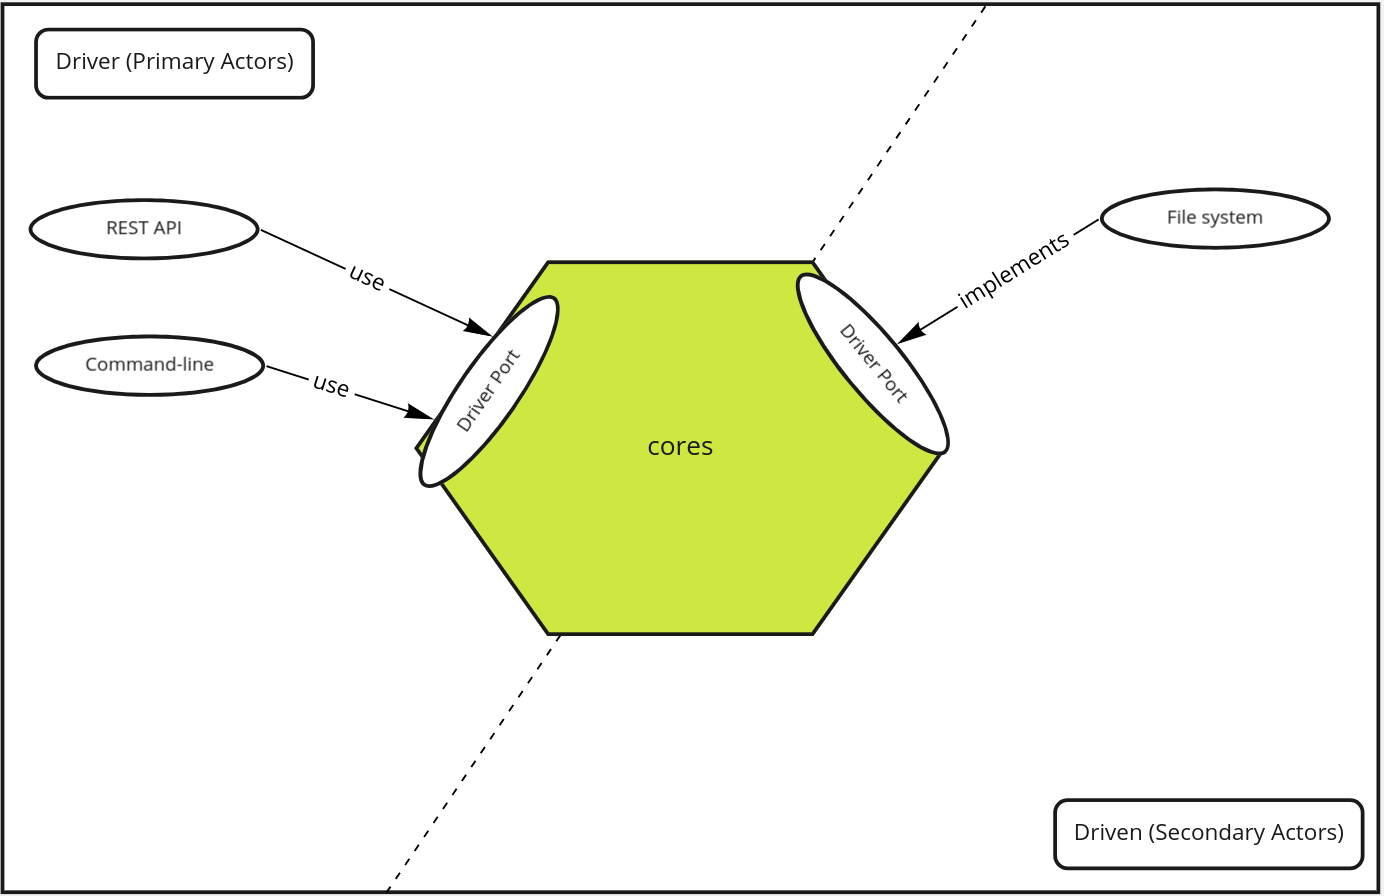
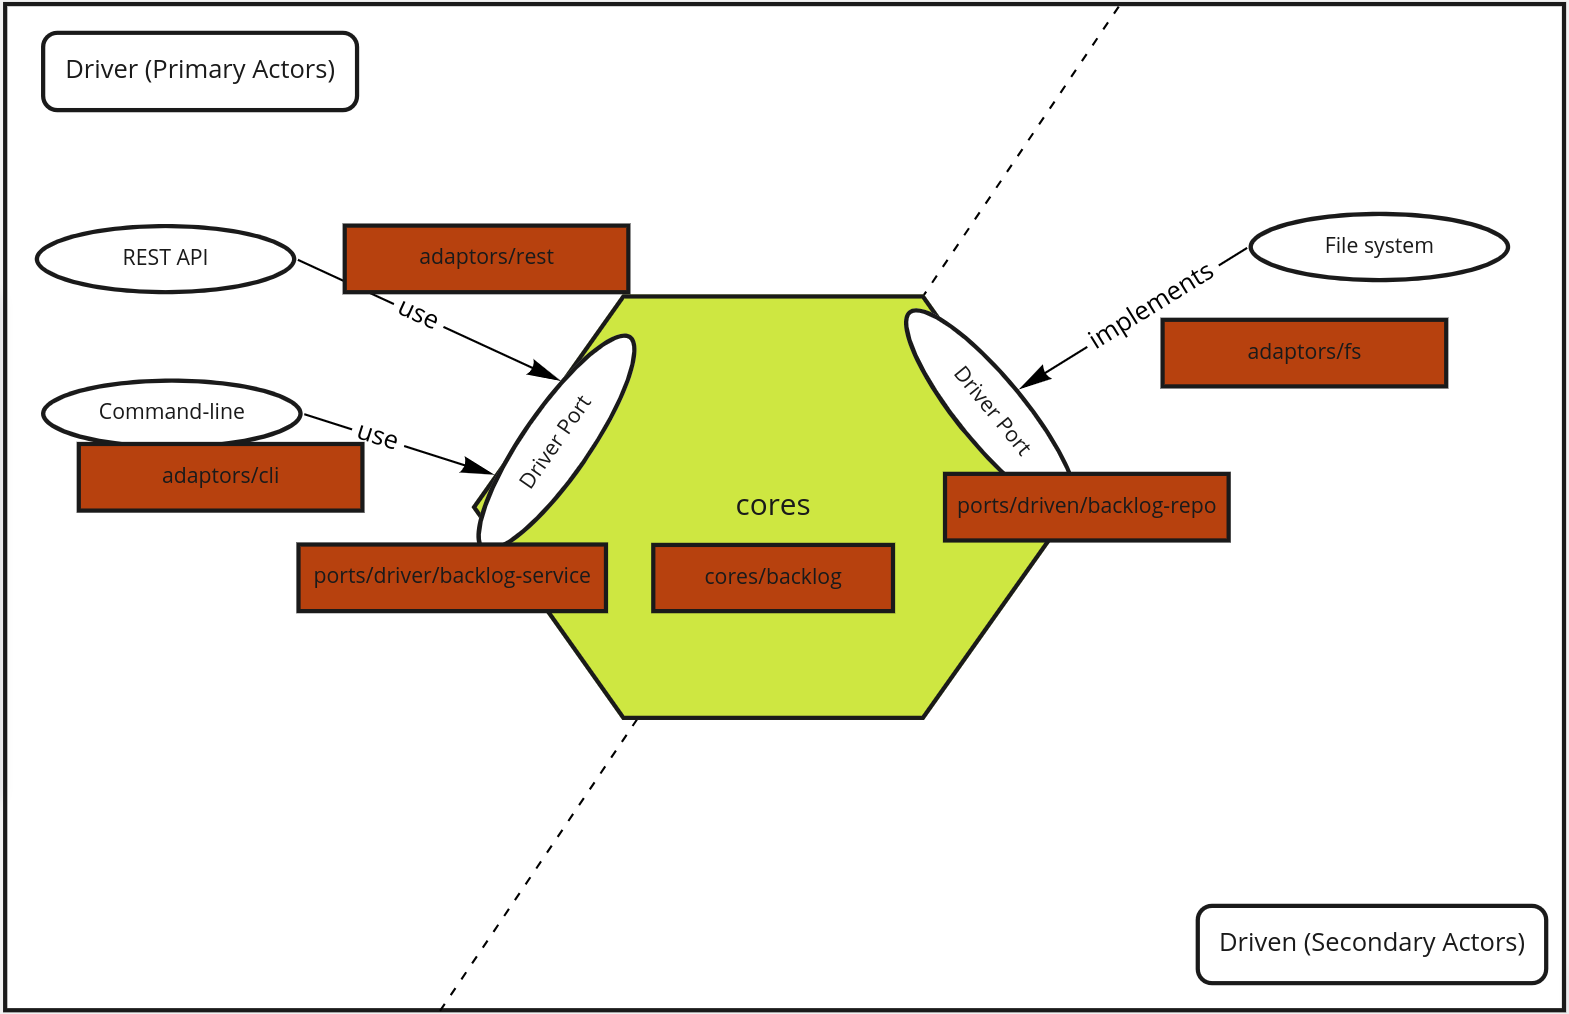
update README

diff --git a/README.md b/README.md
@@ -14,12 +14,15 @@ Users can use the features through REST api or command-line app.
 TODO:
 
 - [ ] Think of a better method of error handling.
+  - [ ] and remove the codes using `unwrap`
 - [ ] Add logging (using tracing crate)
 - [ ] More testing (ex: adaptors)
 
 ## Architecture
 
 This application is built by multiple crates.
+
+![image-1](./images/architecture-1.png)
 
 ### cores/backlog
 
@@ -48,7 +51,159 @@ By separating the behavior and the data gave me to be simple one by one.
 However, it is possible to make similar expressing using enum.
 trait object sometimes confused me more than necessary.)
 
+#### Code sample
+
+Define with default implementations.
+
+```rust
+pub trait Estimatable {
+    fn mut_point(&mut self) -> &mut Option<StoryPoint>;
+
+    /// estimate it.
+    fn estimate(&mut self, point: StoryPoint) {
+        *self.mut_point() = Some(point);
+    }
+}
+```
+
+When it implements, I can omit implementation.
+
+```rust
+impl Estimatable for Story {
+    fn mut_point(&mut self) -> &mut Option<StoryPoint> {
+        &mut self.point
+    }
+}
+```
+
+```rust
+impl Estimatable for Task {
+    fn mut_point(&mut self) -> &mut Option<StoryPoint> {
+        &mut self.point
+    }
+}
+```
+
+We can test only the estimate part.
+
+```rust
+#[test]
+fn test_estimatable() {
+    let mut estimatable = TestEstimateable { point: None };
+    estimatable.estimate(StoryPoint::new(2).unwrap());
+    assert_eq!(estimatable.point, Some(StoryPoint::new(2).unwrap()))
+}
+```
+
 ### ports/***
+
+Ports represent interfaces of application.
+I define 2 kinds of interfaces called `Driver` and `Driven`.
+
+#### Driver
+
+`Driver` represents the interface that the actor of the application user.
+In other words, `Driver` interface knows
+how to call the function that is defined cores/backlog.
+
+#### Driven
+
+`Driven` represent the interface that application use.
+Application often use middleware for persistencing and more.
+These interfaces know that how to use it.
+
+##### Code sample
+
+Driver
+
+Rust's trait can be defined default implementation.
+So, unlike `Driven` interface, it is defined with default implementations.
+
+The interface has dependencies to `Driven` interface.
+So When we want to run `Driver` interface,
+we can run with something that implement `Driven` interface.
+
+Therefore, When we testing, we can use mock that was implemented `Driven`.
+
+```rust
+#[async_trait::async_trait]
+pub trait BacklogUseCase: ProvideBacklogRepository {
+    async fn get_backlog(&self) -> UseCaseResult<Backlog> {
+        let repo = self.provide();
+        let backlog = repo.get().await?;
+        Ok(backlog)
+    }
+
+    /// Add item to backlog
+    async fn add_item(&self, cmd: impl AddItemCmd + 'async_trait) -> UseCaseResult<Backlog> {
+        let repo = self.provide();
+        let mut backlog = repo.get().await?;
+        backlog.add_item(cmd.item());
+        repo.save(backlog.clone()).await?;
+        Ok(backlog)
+    }
+
+    /// Assign the specific item to someone.
+    async fn assign_item(&self, cmd: impl AssignItemCmd + 'async_trait) -> UseCaseResult<Backlog> {
+        let repo = self.provide();
+        let mut backlog = repo.get().await?;
+        backlog.assign_item(&cmd.id(), cmd.assignee())?;
+        repo.save(backlog.clone()).await?;
+        Ok(backlog)
+    }
+
+    /// Estimate the specific item.
+    async fn estimate_item(
+        &self,
+        cmd: impl EstimateItemCmd + 'async_trait,
+    ) -> UseCaseResult<Backlog> {
+        let repo = self.provide();
+        let mut backlog = repo.get().await?;
+        backlog.estimate_item(&cmd.id(), cmd.point())?;
+        repo.save(backlog.clone()).await?;
+        Ok(backlog)
+    }
+}
+```
+
+We can test it using mock
+
+```rust
+#[cfg(test)]
+mod test_get_backlog {
+    use super::*;
+
+    #[tokio::test]
+    async fn test_get_backlog() {
+        let mut mock = mock::MockTest::new();
+        mock.expect_get().times(1).returning(|| Ok(Backlog::new()));
+        mock.get_backlog().await.unwrap();
+    }
+}
+```
+
+Driven
+
+`Driven` interface is defined with `Provide~` trait.
+
+```rust
+pub trait ProvideBacklogRepository {
+    type Repository: BacklogRepository + Send + Sync;
+
+    fn provide(&self) -> &Self::Repository;
+}
+
+#[async_trait::async_trait]
+pub trait BacklogRepository {
+    /// Get the specific backlog.
+    ///
+    /// If backlog does not find, return the error.
+    async fn get(&self) -> PortsResult<Backlog>;
+
+    /// Save the specific backlog.
+    async fn save(&self, backlog: Backlog) -> PortsResult<()>;
+}
+```
 
 ### adaptors/***
 
